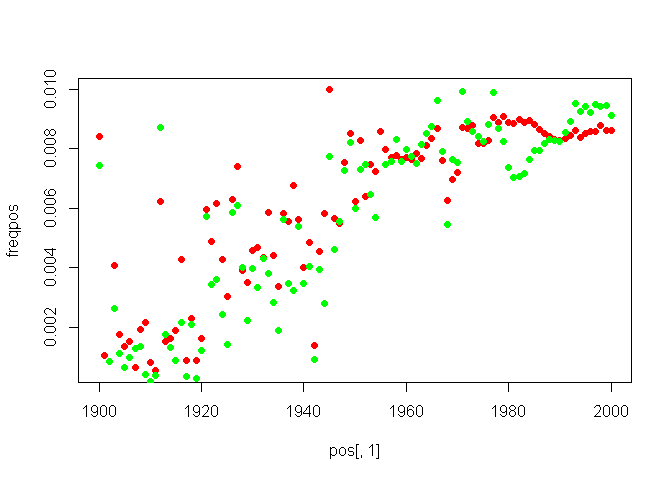
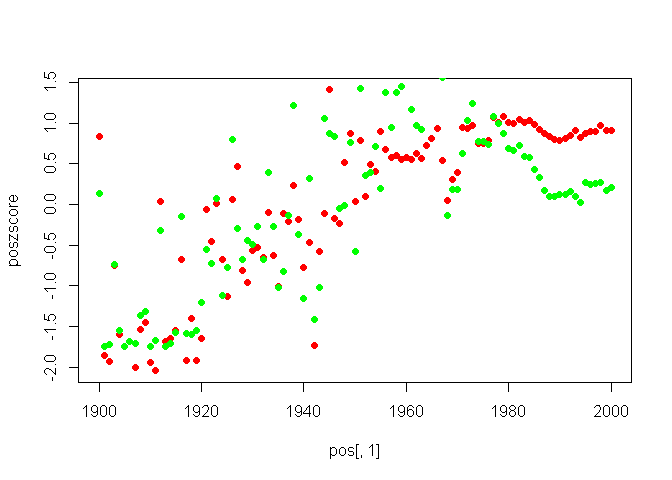
correlations

diff --git a/analysis.html b/analysis.html
@@ -74,7 +74,9 @@ sent &lt;- freqpos - freqneg
 poslm &lt;- lm(freqpos~pos[,1])
 neglm &lt;- lm(-freqneg~neg[,1])
 neglmp &lt;- lm(freqneg~neg[,1])
-sentlm &lt;- lm(sent~pos[,1])</code></pre>
+sentlm &lt;- lm(sent~pos[,1])
+negzscore &lt;- (freqneg - mean(freqneg))/sd(freqneg)
+poszscore &lt;- (freqpos - mean(freqpos))/sd(freqpos)</code></pre>
 </div>
 <div class="section level3">
 <h3>绘制图</h3>
@@ -113,10 +115,12 @@ negdf &lt;- read.csv(&quot;negdf.csv&quot;, stringsAsFactors = F, header = T)</c
 <pre class="r"><code>poscor &lt;- rep(0,ncol(posdf)-1)
 negcor &lt;- rep(0,ncol(negdf)-1)
 for (i in 2:ncol(posdf)){
-  poscor[i-1] = cor(freqpos, posdf[,i]/total[,3])
+  freq &lt;- posdf[,i]/total[,3]
+  poscor[i-1] = cor(poszscore, (freq-mean(freq))/sd(freq))
 }
 for (i in 2:ncol(negdf)){
-  negcor[i-1] = cor(freqneg, negdf[,i]/total[,3])
+  freq &lt;- negdf[,i]/total[,3]
+  negcor[i-1] = cor(negzscore, (freq-mean(freq))/sd(freq))
 }</code></pre>
 </div>
 <div class="section level3">
@@ -124,21 +128,32 @@ for (i in 2:ncol(negdf)){
 <pre class="r"><code>top10poscorscore &lt;- sort(poscor, T)[1:10]
 top10posterm &lt;- rep(&quot;&quot;,10)
 for (i in 1:10){
-  top10posterm[i] = names(posdf)[which(poscor == top10poscorscore[i])+1]
+  top10posterm[i] &lt;- names(posdf)[which(poscor == top10poscorscore[i])+1]
 }
 top10posterm</code></pre>
 <pre><code>##  [1] &quot;向&quot;   &quot;要&quot;   &quot;过&quot;   &quot;快&quot;   &quot;集中&quot; &quot;好&quot;   &quot;给&quot;   &quot;尽&quot;   &quot;肯定&quot; &quot;接受&quot;</code></pre>
 <pre class="r"><code>top10negcorscore &lt;- sort(negcor, T)[1:10]
 top10negterm &lt;- rep(&quot;&quot;,10)
 for (i in 1:10){
-  top10negterm[i] = names(negdf)[which(negcor == top10negcorscore[i])+1]
+  top10negterm[i] &lt;- names(negdf)[which(negcor == top10negcorscore[i])+1]
 }
 top10negterm</code></pre>
 <pre><code>##  [1] &quot;说&quot;       &quot;给&quot;       &quot;沉重&quot;     &quot;不顾&quot;     &quot;惊慌&quot;     &quot;向&quot;      
 ##  [7] &quot;教训&quot;     &quot;担心&quot;     &quot;摇摆&quot;     &quot;怒不可遏&quot;</code></pre>
-<pre class="r"><code>plot(pos[,1], freqpos, pch = 19, col = 'red')
-points(pos[,1], 23*posdf[,419]/total[,3], pch = 19, col = 'green')</code></pre>
[1 lines of base64/hex data omitted]
+<pre class="r"><code>freq &lt;- posdf$好/total[,3]
+zscore &lt;- (freq-mean(freq))/sd(freq)
+plot(pos[,1], poszscore, pch = 19, col = 'red')
+points(pos[,1], zscore, pch = 19, col = 'green')</code></pre>
[1 lines of base64/hex data omitted]
+<pre class="r"><code>cor(poszscore, zscore)</code></pre>
+<pre><code>## [1] 0.8613</code></pre>
+<pre class="r"><code>freq &lt;- negdf$沉重/total[,3]
+zscore &lt;- (freq-mean(freq))/sd(freq)
+plot(neg[,1], negzscore, pch = 19, col = 'red')
+points(pos[,1], zscore, pch = 19, col = 'purple')</code></pre>
[1 lines of base64/hex data omitted]
+<pre class="r"><code>cor(poszscore, zscore)</code></pre>
+<pre><code>## [1] 0.7709</code></pre>
 </div>
 </div>
 

diff --git a/analysis.md b/analysis.md
@@ -22,6 +22,8 @@ poslm <- lm(freqpos~pos[,1])
 neglm <- lm(-freqneg~neg[,1])
 neglmp <- lm(freqneg~neg[,1])
 sentlm <- lm(sent~pos[,1])
+negzscore <- (freqneg - mean(freqneg))/sd(freqneg)
+poszscore <- (freqpos - mean(freqpos))/sd(freqpos)
 ```
 ### 绘制图
 
@@ -81,10 +83,12 @@ negdf <- read.csv("negdf.csv", stringsAsFactors = F, header = T)
 poscor <- rep(0,ncol(posdf)-1)
 negcor <- rep(0,ncol(negdf)-1)
 for (i in 2:ncol(posdf)){
-  poscor[i-1] = cor(freqpos, posdf[,i]/total[,3])
+  freq <- posdf[,i]/total[,3]
+  poscor[i-1] = cor(poszscore, (freq-mean(freq))/sd(freq))
 }
 for (i in 2:ncol(negdf)){
-  negcor[i-1] = cor(freqneg, negdf[,i]/total[,3])
+  freq <- negdf[,i]/total[,3]
+  negcor[i-1] = cor(negzscore, (freq-mean(freq))/sd(freq))
 }
 ```
 
@@ -94,7 +98,7 @@ for (i in 2:ncol(negdf)){
 top10poscorscore <- sort(poscor, T)[1:10]
 top10posterm <- rep("",10)
 for (i in 1:10){
-  top10posterm[i] = names(posdf)[which(poscor == top10poscorscore[i])+1]
+  top10posterm[i] <- names(posdf)[which(poscor == top10poscorscore[i])+1]
 }
 top10posterm
 ```
@@ -107,7 +111,7 @@ top10posterm
 top10negcorscore <- sort(negcor, T)[1:10]
 top10negterm <- rep("",10)
 for (i in 1:10){
-  top10negterm[i] = names(negdf)[which(negcor == top10negcorscore[i])+1]
+  top10negterm[i] <- names(negdf)[which(negcor == top10negcorscore[i])+1]
 }
 top10negterm
 ```
@@ -119,9 +123,37 @@ top10negterm
 
 
 ```r
-plot(pos[,1], freqpos, pch = 19, col = 'red')
-points(pos[,1], 23*posdf[,419]/total[,3], pch = 19, col = 'green')
+freq <- posdf$好/total[,3]
+zscore <- (freq-mean(freq))/sd(freq)
+plot(pos[,1], poszscore, pch = 19, col = 'red')
+points(pos[,1], zscore, pch = 19, col = 'green')
 ```
 
 ![plot of chunk unnamed-chunk-10](./analysis_files/figure-html/unnamed-chunk-10.png) 
+
+```r
+cor(poszscore, zscore)
+```
+
+```
+## [1] 0.8613
+```
+
+
+```r
+freq <- negdf$沉重/total[,3]
+zscore <- (freq-mean(freq))/sd(freq)
+plot(neg[,1], negzscore, pch = 19, col = 'red')
+points(pos[,1], zscore, pch = 19, col = 'purple')
+```
+
+![plot of chunk unnamed-chunk-11](./analysis_files/figure-html/unnamed-chunk-11.png) 
+
+```r
+cor(poszscore, zscore)
+```
+
+```
+## [1] 0.7709
+```
 
